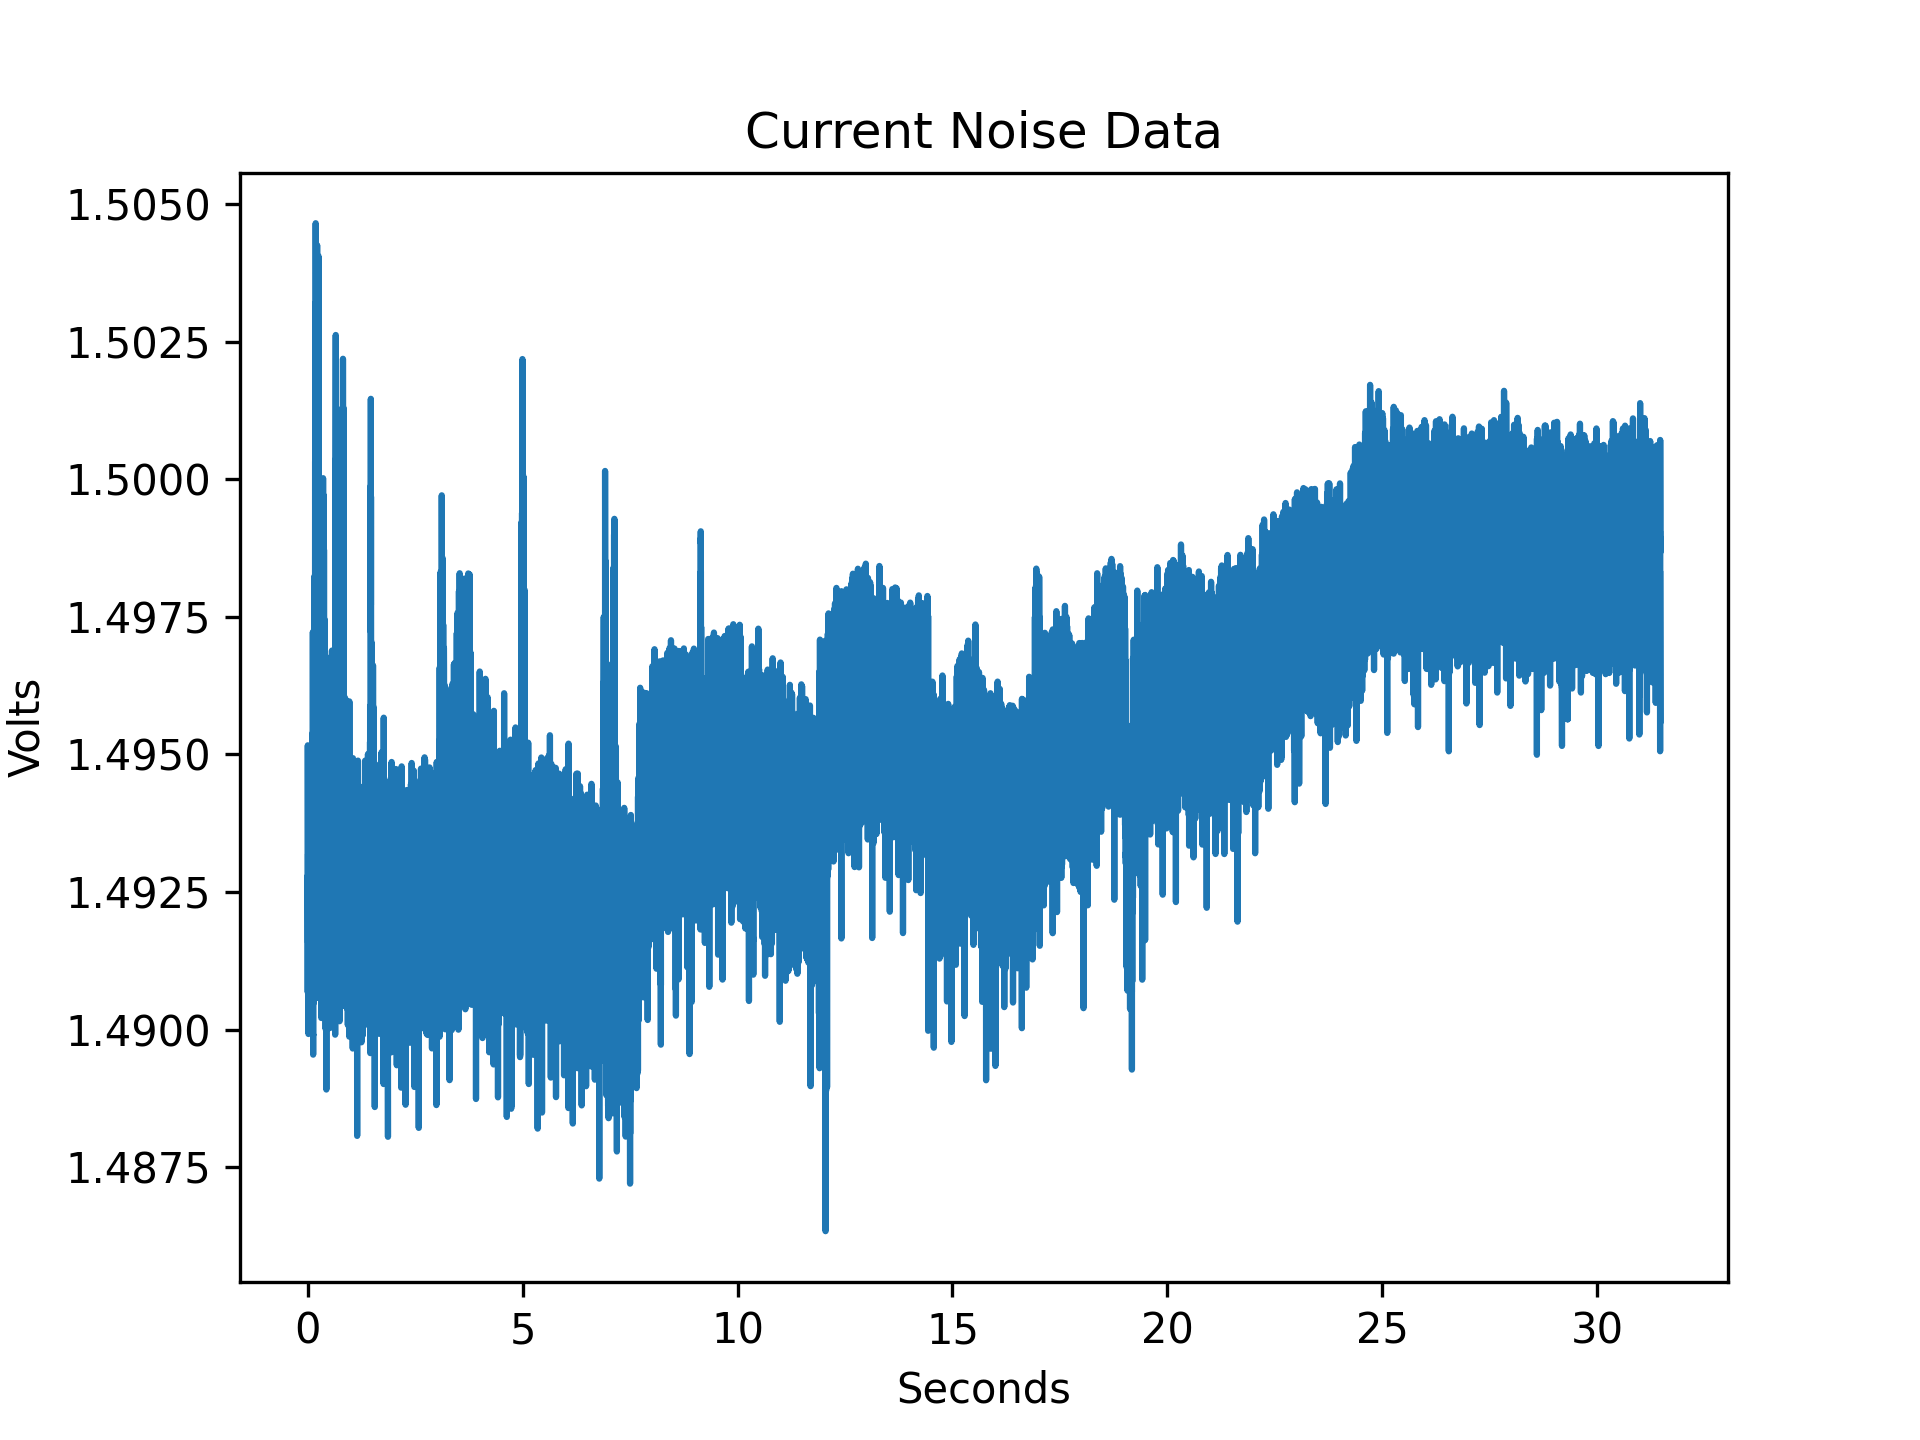
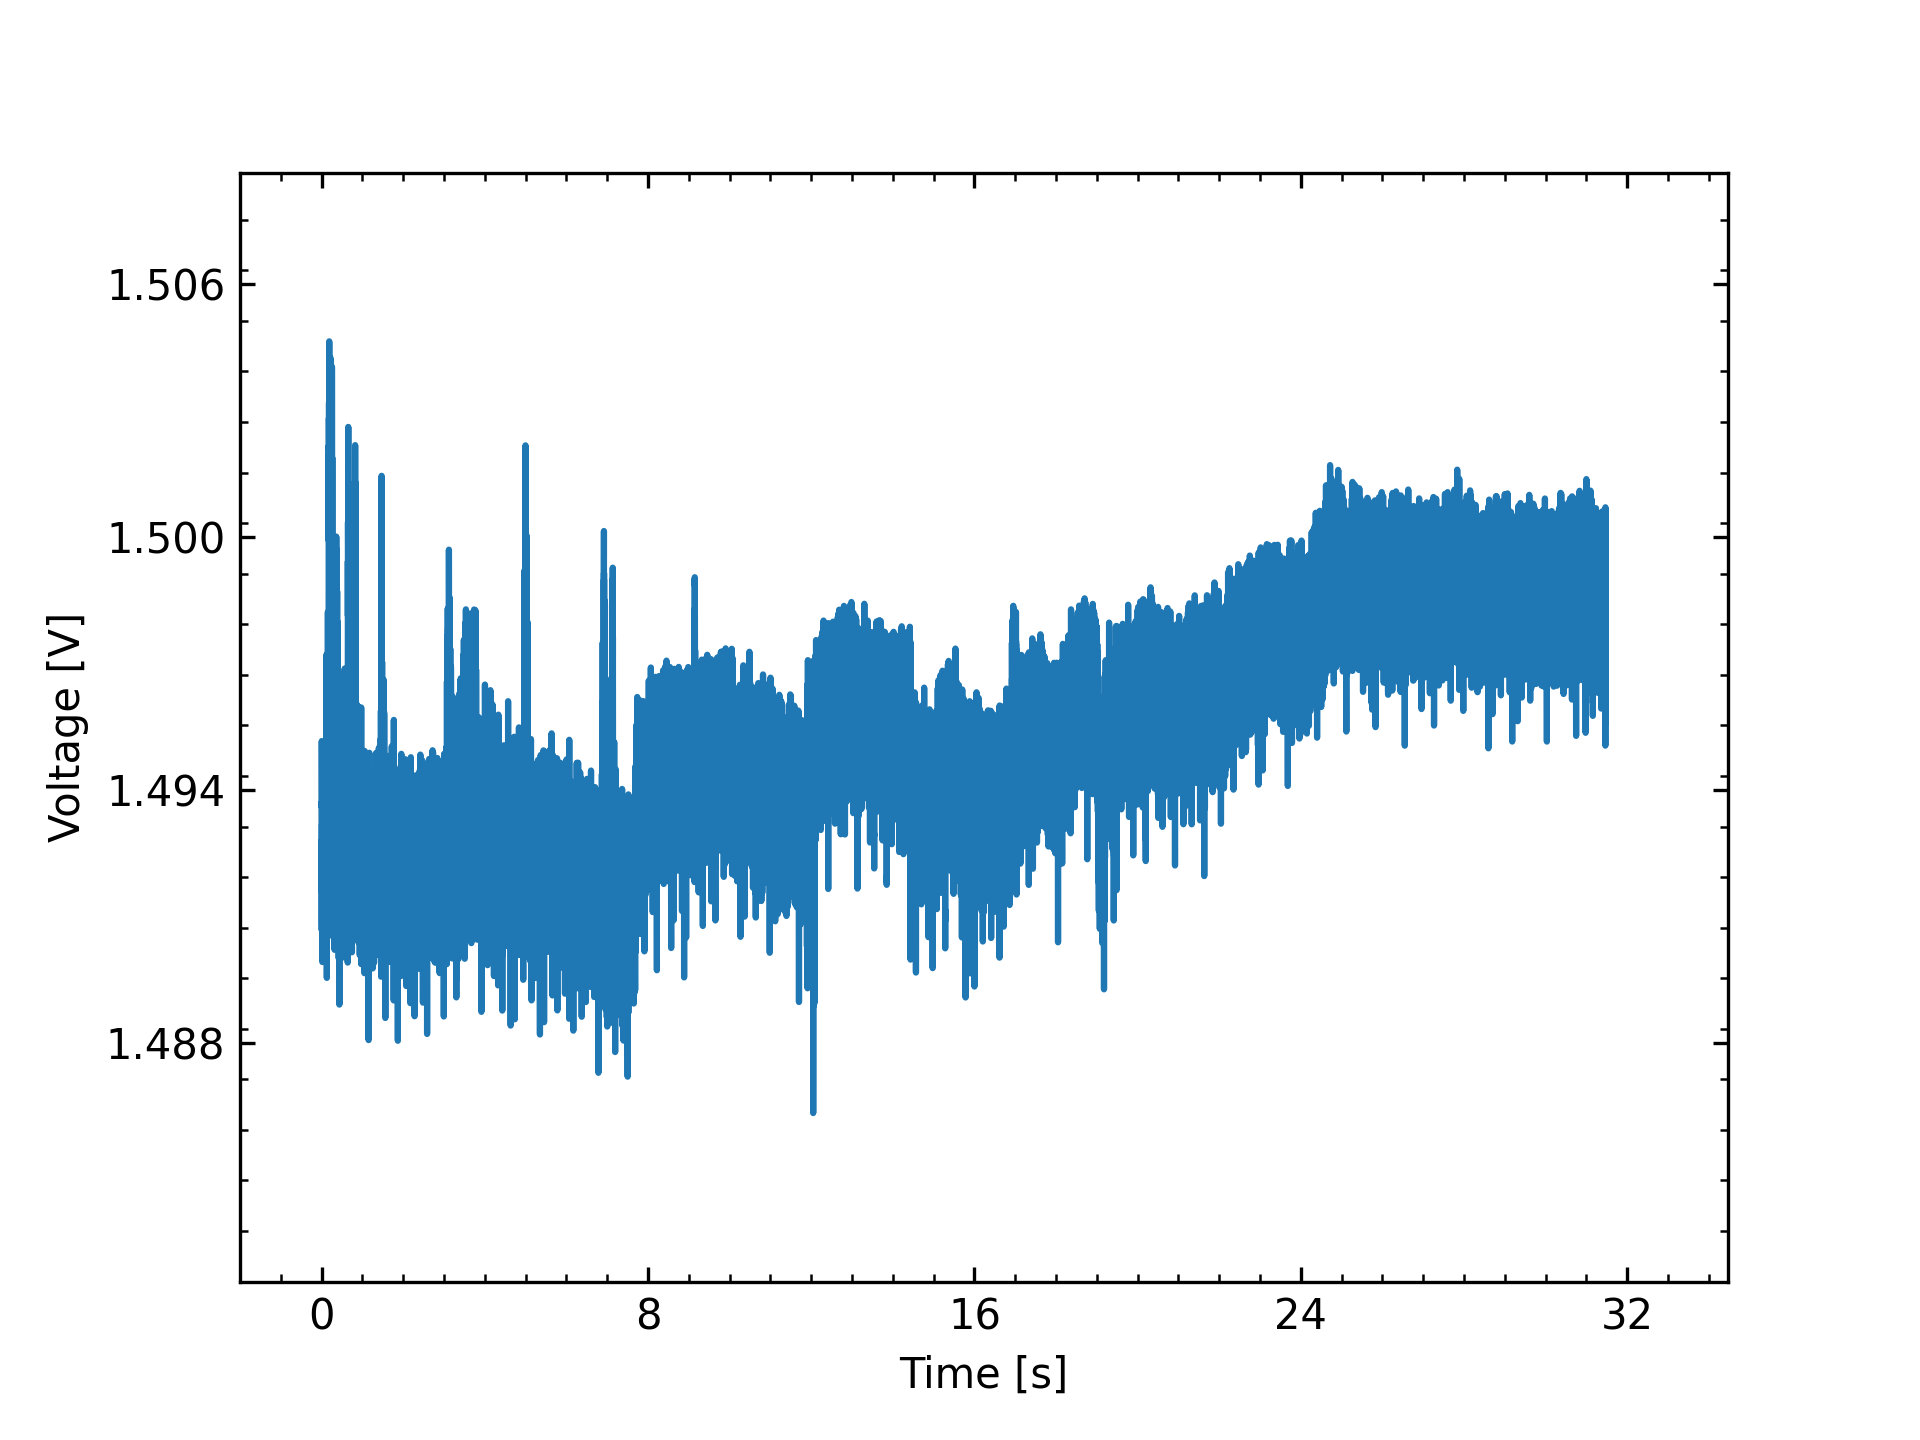
updating analysis code

diff --git a/Controller/Data/data_analysis.py b/Controller/Data/data_analysis.py
@@ -25,25 +25,54 @@ def absFFT(times,amplitude):
 def plotFourrier(t0, v0, t1=0, v1=0):
     freq0, fft0 = absFFT(t0,v0)
     
-    freq0 = np.delete(freq0, 0)
-    fft0 = np.delete(fft0, 0)
+    freq0 = freq0[5:]
+    fft0 = fft0[5:]
 
-    plt.figure(3)
-    plt.plot(freq0, fft0)
-    plt.xlabel("frequency [Hz]")
-    plt.ylabel("Amplitude")
+    fig, ax = plt.subplots(1, 1, num=3)
+    ax.plot(freq0, fft0)
+    ax.set_xlabel("frequency [Hz]")
+    ax.set_ylabel("Amplitude")
+    ax.set_xlim((min(freq0)-100, 2000))
+    ax.set_ylim((min(fft0),.00004 + max(fft0)))
+
+    ax.xaxis.set_major_locator(plt.MaxNLocator(5))
+    ax.xaxis.set_minor_locator(plt.FixedLocator(np.arange(ax.get_xlim()[0], ax.get_xlim()[1], 100)))
+
+    # Add major and minor ticks to y-axis
+    ax.yaxis.set_major_locator(plt.MaxNLocator(5))
+    ax.yaxis.set_minor_locator(plt.FixedLocator(np.arange(ax.get_ylim()[0], ax.get_ylim()[1], .000025)))
+
+    ax.tick_params(direction='in', top=True, right=True, which='both')
+
+
+    
+
+    #write code that adds major and minor ticks that are oriented inwards on all axes and that sets x and y limits adjusted for the maximum and minimum values for the y and x data
     plt.savefig("/Users/lseverwalter/code/AMFS/Controller/Data/FFT_Plots/FFT_Coil_Noise_30_1", dpi=300, transparent=False)
     plt.show()
 
 
 
 def plot_data(t0, v0, t1=0, v1=0):
-    plt.plot(t0, v0)
-    plt.title("Current Noise Data")
-    plt.xlabel("Seconds")
-    plt.ylabel("Volts")
+    fig, ax = plt.subplots(1, 1, num=2)
+    ax.plot(t0, v0)
+    ax.set_xlabel("Time [s]")
+    ax.set_ylabel("Voltage [V]")
+    ax.set_xlim((-2+min(t0), 3+max(t0)))
+    ax.set_ylim((min(v0)-.004, .004+max(v0)))
+
+    ax.xaxis.set_major_locator(plt.MaxNLocator(5))
+    ax.xaxis.set_minor_locator(plt.FixedLocator(np.arange(ax.get_xlim()[0], ax.get_xlim()[1], 1)))
+
+    # Add major and minor ticks to y-axis
+    ax.yaxis.set_major_locator(plt.MaxNLocator(5))
+    ax.yaxis.set_minor_locator(plt.FixedLocator(np.arange(ax.get_ylim()[0], ax.get_ylim()[1], .0012)))
+
+    ax.tick_params(direction='in', top=True, right=True, which='both')
+
     plt.savefig("/Users/lseverwalter/code/AMFS/Controller/Data/Current_Plots/Coil_Noise_30_1", dpi=300, transparent=False)
     plt.show()
+
 
 
 plot_data(t0, v0)
